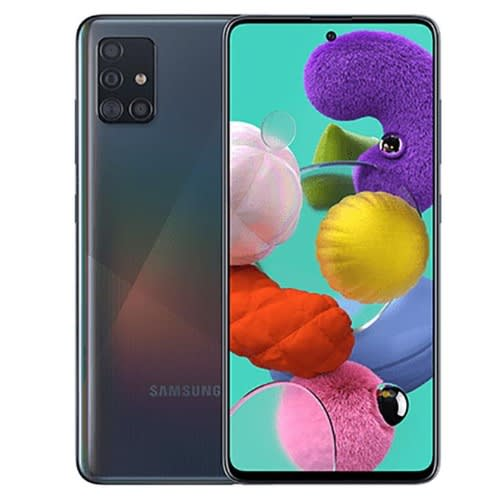
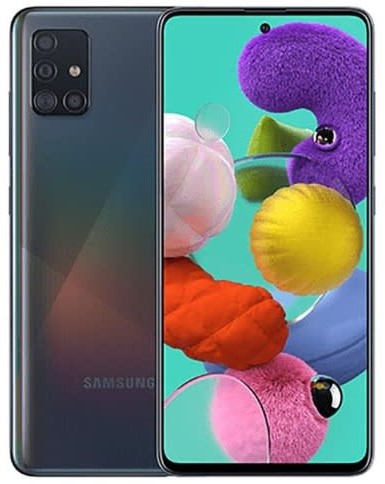
Croppaði myndir af símum og setti hvítann bakgrunn á ferningshlutur

diff --git a/vidgerdir.html b/vidgerdir.html
@@ -21,7 +21,7 @@
       </nav>
     </header>
     <main>
-      <div class="FerningsHlutur">
+      <div class="FerningsHlutur einnthridji">
         <div class="frame">
           <img src="img/Samsung-Galaxy-S9-plus-2018.jpg">
         </div>
@@ -33,7 +33,7 @@
         </div>
       </div>
       
-      <div class="FerningsHlutur">
+      <div class="FerningsHlutur einnthridji">
         <div class="frame">
           <img src="img/Motorola-Moto-G60S-Green.jpg" alt="Sími: Moto g60s">
         </div>
@@ -45,7 +45,7 @@
         </div>
       </div>
       
-      <div class="FerningsHlutur">
+      <div class="FerningsHlutur einnthridji">
         <div class="frame">
           <img src="img/Samsung-Galaxy-A71.jpg" alt="Sími: Samsung Galaxy A71">
         </div>
@@ -56,7 +56,7 @@
           </p>
         </div>
       </div>
-      <div class="FerningsHlutur">
+      <div class="FerningsHlutur einnthridji">
         <div class="frame">
           <img src="img/Samsung-Galaxy-Note-10-Lite.png" alt="Sími: Samsung Galaxy Note 10 Lite">
         </div>
@@ -66,11 +66,8 @@
               Glerskipti
           </p>
         </div>
-      </div>
-      <h1>
-        Heyrnatól
-      </h1>      
-      <div class="FerningsHlutur">
+      </div>  
+      <div class="FerningsHlutur einnthridji">
         <div class="frame">
           <img src="img/JBL-LIVE-500BT.jpg" alt="Heyrnatól: JBL LIVE 500BT">
         </div>
@@ -82,7 +79,7 @@
         </div>
       </div>
 
-      <div class="FerningsHlutur">
+      <div class="FerningsHlutur einnthridji">
         <div class="frame">
           <img src="img/JBL-LIVE-650BTNC.jpg" alt="Heyrnatól: JBL LIVE 650BTNC">
         </div>
@@ -94,7 +91,7 @@
         </div>
       </div>
 
-      <div class="FerningsHlutur">
+      <div class="FerningsHlutur einnthridji">
         <div class="frame">
           <img src="img/Beats-Solo-3.jpg" alt="Heyrnatól: Beats Solo 3">
         </div>
@@ -106,7 +103,7 @@
         </div>
       </div>
 
-      <div class="FerningsHlutur">
+      <div class="FerningsHlutur einnthridji">
         <div class="frame">
           <img src="img/Beats-Studio-3.jpg" alt="Heyrnatól: Beats Studio 3">
         </div>
@@ -118,7 +115,7 @@
         </div>
       </div>
 
-      <div class="FerningsHlutur">
+      <div class="FerningsHlutur einnthridji">
         <div class="frame">
         <img src="img/Bose-QuietComfort-35.jpg" alt="Heyrnatól: Bose QuietComfort 35">
         </div>

diff --git a/stylesheet.css b/stylesheet.css
@@ -24,7 +24,8 @@ main {
 
 .FerningsHlutur {
     /*border: 1px solid black;*/
-    background-color: var(--myBlue);
+    /*background-color: var(--myBlue);*/
+    background-color: white;
     border-radius: 10px;
     width: 99.4%;
     float: left;
